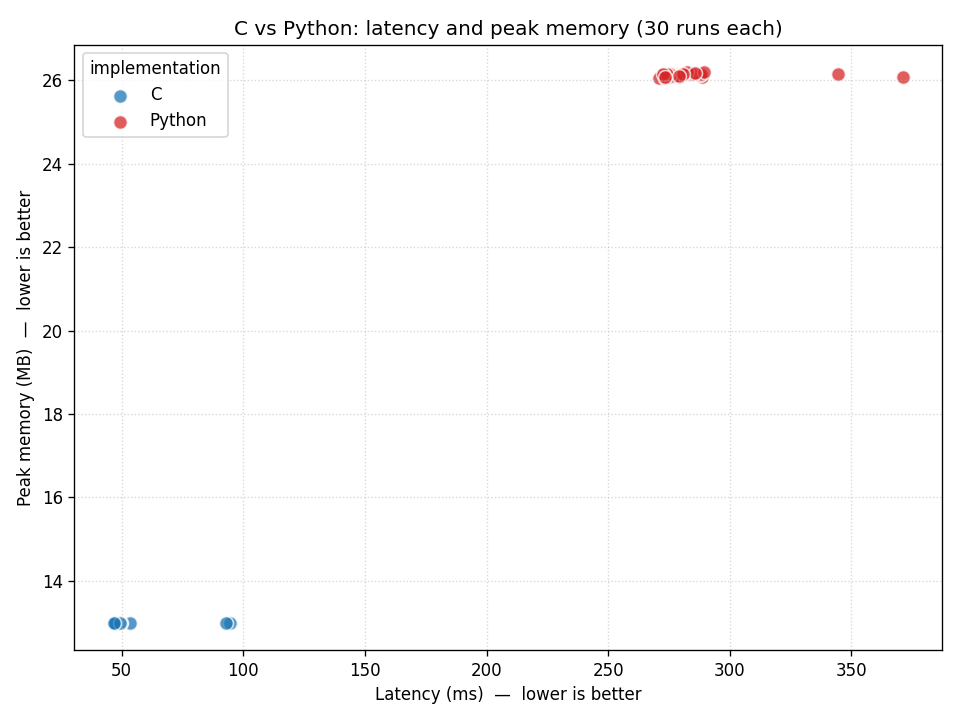
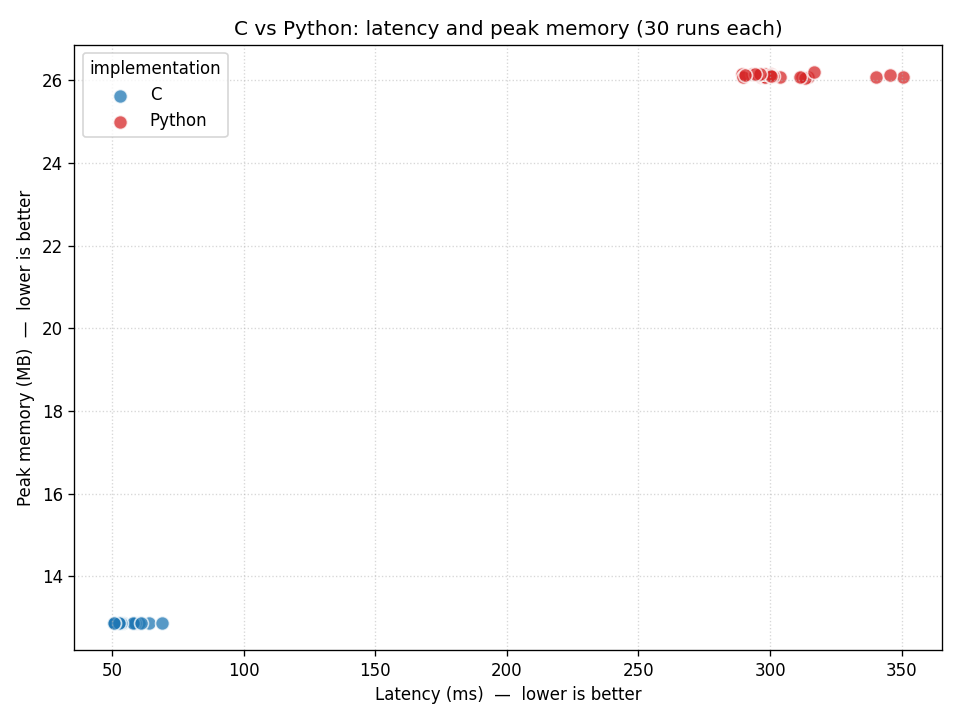
Refresh benchmark and document entity-table speedup in README
Re-ran `make bench` against the open-addressing entity table and regenerated
bench/results.csv + bench/benchmark.png. Updated the C-vs-Python results table
to this run (C ~53 ms / 13 MB, Python ~299 ms / 26 MB on the current shared
machine; the ratio ~5.6x is unchanged and absolute figures remain
machine-dependent as the README notes).

Documented the entity-table change explicitly: a controlled same-machine
before/after shows ~6-8% lower end-to-end latency vs the previous chained table
with peak memory flat (~3% from the cheaper mask/FNV index, the rest from cache
locality).

Claude-Session: https://claude.ai/code/session_01J9fu4Q5Y39NYHVXA4oSVno

diff --git a/README.md b/README.md
@@ -118,7 +118,10 @@ The implementation favors incremental, performance-oriented data structures:
 
 - **Entities** live in an open-addressing hash table of `entity *` (power-of-two slots,
   linear-probe, FNV-1a, grown and rehashed at ~0.7 load) — no per-entity chaining, so a
-  lookup touches a contiguous probe sequence rather than chasing list nodes.
+  lookup touches a contiguous probe sequence rather than chasing list nodes. A controlled
+  before/after on the same machine attributes **~6–8% lower end-to-end latency** to this
+  change vs the previous chained table, with peak memory unchanged (≈3% from the cheaper
+  mask/FNV index, the rest from cache locality).
 - **Relationships** are stored per entity. For each relationship type an entity takes
   part in, it keeps two compact open-addressing hash sets of `entity *` (stored inline,
   power-of-two, grown and rehashed at ~0.7 load): `targets` (the entities it points to)
@@ -170,9 +173,9 @@ make bench      # pip install matplotlib, run the harness, regenerate the plot b
 
 | Implementation | Latency | Peak memory |
 | --- | --- | --- |
-| C (`bin/api`) | **48 ms** | **13 MB** |
-| Python (`python/api.py`) | 278 ms | 26 MB |
-| Ratio (Python / C) | ~5.8× slower | ~2.0× more |
+| C (`bin/api`) | **53 ms** | **13 MB** |
+| Python (`python/api.py`) | 299 ms | 26 MB |
+| Ratio (Python / C) | ~5.6× slower | ~2.0× more |
 
 Plotting every run on a memory-vs-latency scatter, the two implementations form two
 clearly separated clusters: C sits in the fast, light corner; Python trades both away for